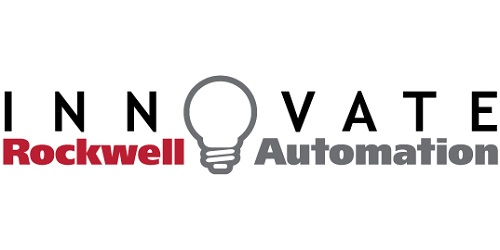
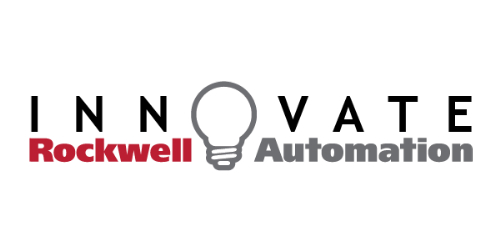
Join Our Group additions

Changed region(s): [[0.0, 0.28, 1.0, 0.7], [0.54, 0.364, 0.63, 0.532]]

diff --git a/src/utilities/whirligig/whirligig.tpl.html b/src/utilities/whirligig/whirligig.tpl.html
@@ -5,7 +5,9 @@
                 <div ng-if="$first" ng-click="gotoAccount()">
                     <img class="toolbar-lightbulb" ng-src="{{slide.img}}" />
                 </div>
-                <img ng-if="$middle" ng-src="{{slide.img}}" />
+                <div ng-if="$middle">
+                    <img class="toolbar-lightbulb" ng-src="{{slide.img}}" ui-sref="jointeam">/>
+                </div>
                 <img ng-if="$last"   ng-src="{{slide.img}}" />
             </li>
         </ol>

diff --git a/src/app.js b/src/app.js
@@ -67,6 +67,11 @@ angular.module('flintAndSteel', [
                 url: '/innovationdisclosure',
                 templateUrl: 'innovationDisclosureView/innovationDisclosureView.tpl.html',
                 controller: ''
+            })
+            .state('jointeam', {
+                url: '/jointeam',
+                templateUrl: 'joinTeamView/joinTeamView.tpl.html',
+                controller: ''
             });
 
         $urlRouterProvider.otherwise('/');

diff --git a/src/joinTeamView/joinTeamView.tpl.html b/src/joinTeamView/joinTeamView.tpl.html
@@ -1,0 +1,7 @@
+<div layout="column" layout-align="space-between center" class="extra-padding-lg">
+    <h1>Join Our Team!</h1>
+    <div>
+        <p>If you are interested in joining the development team for Innovate, please email <a href="mailto:innovate@ra.rockwell.com?subject=Join%20Our%20Team">Innovate.</a>
+        </p>
+    </div>
+</div>
